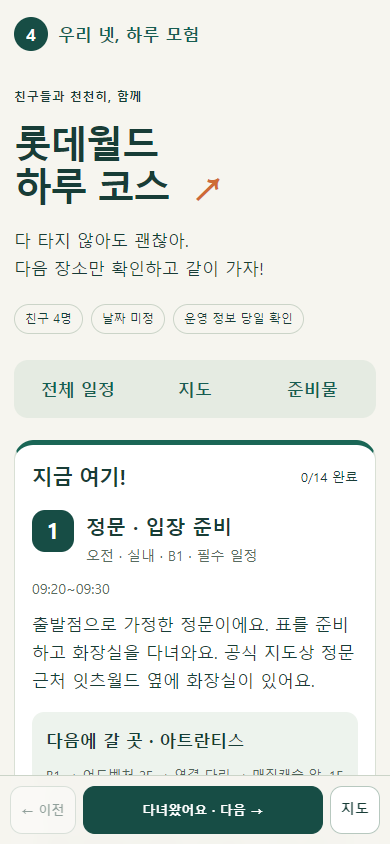
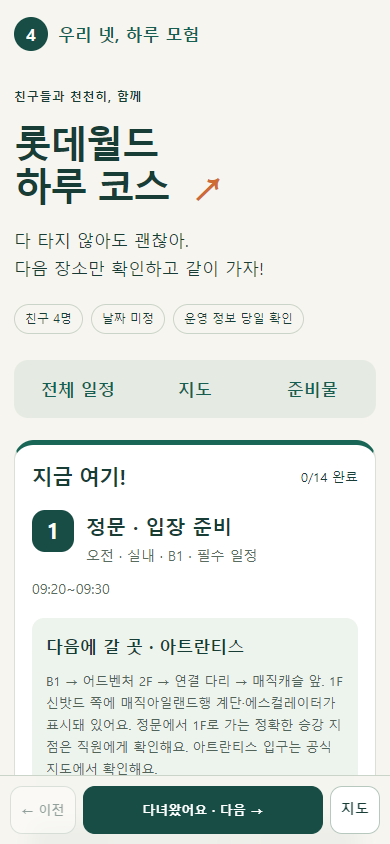
Cross-check APK floor connections and improve map readability

Changed region(s): [[0.0923, 0.7085, 0.8923, 0.9242]]

diff --git a/index.html b/index.html
@@ -8,7 +8,7 @@
 <section class="current panel" aria-label="현재 단계"><div class="section-top"><h2>지금 여기!</h2><span id="progress"></span></div><div id="current"></div><div class="next" id="next"></div><a class="button primary" href="#map" id="show-current">현재 단계 지도 보기 ↗</a></section>
 <p class="small notice">10시 개장을 가정한 <strong>권장 시간대</strong>예요. 예약 시간이 아니에요. 정문(B1) 출발을 가정했어요. 다른 입구라면 직원에게 첫 목적지를 물어봐요.</p>
 <section id="map" class="panel"><div class="section-top"><h2>우리의 코스 지도</h2><span class="tag">공식 지도 기반</span></div><p><strong>첨부 가이드맵 위에서 따라가기</strong></p><p class="small">배경은 공식 가이드맵이에요. 큰 색상 원과 ‘코스’ 버튼은 우리 번호예요. 원본의 작은 시설 번호와 달라요. 확대해서 확인해요.</p><div class="filters" id="periods" aria-label="시간대 선택"></div><label for="floor">구역 / 층 선택</label><select id="floor"><option value="all">전체 코스</option><option value="B1">실내 B1 · 정문</option><option value="1F">실내 1F</option><option value="2F">실내 2F</option><option value="3F">실내 3F</option><option value="4F">실내 4F</option><option value="M">실외 · 매직아일랜드</option></select>
-<div class="legend"><span class="morning">● 오전</span><span class="afternoon">● 오후</span><span class="evening">● 저녁</span></div><div class="map-wrap" id="map-wrap"><svg id="route-map" role="group" aria-label="코스 번호를 눌러 장소를 확인하는 안내도" viewBox="0 0 640 840"></svg></div><div class="map-controls"><button id="zoom-in" aria-label="지도 확대">＋</button><button id="zoom-out" aria-label="지도 축소">−</button><button id="fit">전체 경로</button><button id="focus">선택 장소</button></div><p class="small">지도 안: 한 손가락 이동 · 두 손가락 확대/축소<br>페이지 이동: 지도 바깥에서 위아래로 밀어요.</p><div class="notice small"><strong>점선 화살표 = 이동 방향 안내</strong><br>세부 보행로가 확인되지 않은 구간이에요. 화살표를 실제 길처럼 따라가지 마세요. 공식 지도와 현장 안내를 함께 확인해요.</div><h3>층을 바꾸는 곳</h3><div class="transfer"><strong>실내 ↔ 매직아일랜드</strong><p>신밧드 쪽 1F 계단·에스컬레이터<br>⇅ 어드벤처 2F 연결 통로<br>⇄ 연결 다리 ⇄ 매직캐슬 앞</p><span class="small">연결 관계 확인 · 중간 꺾임·통제 구간 미확인</span></div><div class="transfer"><strong>피크닉 장소</strong><p>회전바구니 출구 옆 1F 계단 ⇅ 2F</p></div><h3>동선 근처 화장실</h3><p class="small">WC · B1 정문 근처 잇츠월드 옆<br>WC · 1F 회전바구니·피크닉 계단 근처<br>WC · 1F 만남의 광장 안쪽</p><p class="small">시설 위치는 공식 지도 아이콘 확인. 개방 상태는 현장에서 확인해요.</p><div id="map-detail" aria-live="polite"></div><p class="small">경로 덧그림은 축척 없는 동선 안내도이며 길의 꺾임을 재현하지 않아요. 시설 대표 위치와 실제 입구는 다를 수 있어요.</p><a class="button" id="official-map" target="_blank" rel="noopener">공식 가이드맵 열기 ↗</a></section>
+<div class="legend"><span class="morning">● 오전</span><span class="afternoon">● 오후</span><span class="evening">● 저녁</span></div><div id="map-route" class="notice small" aria-live="polite"></div><div class="map-wrap" id="map-wrap"><svg id="route-map" role="group" aria-label="코스 번호를 눌러 장소를 확인하는 안내도" viewBox="0 0 640 840"></svg></div><div class="map-controls"><button id="zoom-in" aria-label="지도 확대">＋</button><button id="zoom-out" aria-label="지도 축소">−</button><button id="fit">전체 경로</button><button id="focus">선택 장소</button></div><p class="small">지도 안: 한 손가락 이동 · 두 손가락 확대/축소<br>페이지 이동: 지도 바깥에서 위아래로 밀어요.</p><div class="notice small"><strong>점선 화살표 = 이동 방향 안내</strong><br>세부 보행로가 확인되지 않은 구간이에요. 화살표를 실제 길처럼 따라가지 마세요. 공식 지도와 현장 안내를 함께 확인해요.</div><h3>층을 바꾸는 곳</h3><div class="transfer"><strong>실내 ↔ 매직아일랜드</strong><p>신밧드 쪽 1F 계단·에스컬레이터<br>⇅ 어드벤처 2F 연결 통로<br>⇄ 연결 다리 ⇄ 매직캐슬 앞</p><span class="small">공식 지도·앱 내장 연결 대조 · 중간 꺾임·통제 구간 미확인</span></div><div class="transfer"><strong>피크닉 장소</strong><p>회전바구니 출구 옆 1F 계단 ⇅ 2F</p></div><div class="transfer"><strong>후렌치레볼루션 선택 시</strong><p>1F 어린이범퍼카 쪽 계단·에스컬레이터 ⇅ 2F 퀴즈노스 쪽</p><span class="small">앱 내장 연결 + 최신 지도 대조. 진입길·현재 통행은 직원에게 확인해요.</span></div><h3>동선 근처 화장실</h3><p class="small">WC · B1 정문 근처 잇츠월드 옆<br>WC · 1F 회전바구니·피크닉 계단 근처<br>WC · 1F 만남의 광장 안쪽</p><p class="small">시설 위치는 공식 지도 아이콘 확인. 개방 상태는 현장에서 확인해요.</p><div id="map-detail" aria-live="polite"></div><p class="small">경로 덧그림은 축척 없는 동선 안내도이며 길의 꺾임을 재현하지 않아요. 시설 대표 위치와 실제 입구는 다를 수 있어요.</p><a class="button" id="official-map" target="_blank" rel="noopener">공식 가이드맵 열기 ↗</a></section>
 <section id="schedule"><div class="section-top"><h2>하루를 한 걸음씩</h2><span class="tag">큰 번호 순서로</span></div><p class="small">필수는 밥·휴식·함께 귀가! 놀이기구는 모두 선택이에요. 인기 기구는 한 개만 타도 좋아요.</p><div class="panel alternatives"><h3>상황에 맞게 바꾸기</h3><label class="check"><input id="indoor" type="checkbox"> 비·추위 → 실내 코스로 바꾸기</label><p class="small">야외 일정이 실내 사진·휴식으로 바뀌고 지도와 다음 이동도 함께 바뀌어요.</p><p>대기 60분 이상 → 해당 카드에서 사진·휴식을 선택해요.</p><p>무서운 기구가 어렵다면 → 함께 쉬거나 순한 대안을 골라요. 혼자 남지 않아요.</p></div><div id="cards"></div></section>
 <section id="ready" class="panel"><h2>출발 전 체크</h2><div class="packing"><label><input type="checkbox"> 작은 가방</label><label><input type="checkbox"> 물</label><label><input type="checkbox"> 보조배터리</label><label><input type="checkbox"> 편한 운동화</label><label><input type="checkbox"> 겉옷</label></div><h3>우리 넷의 약속</h3><p>이동 전에는 네 명 모두 있는지 확인해요. 길이 헷갈리면 멈추고 직원에게 물어봐요.</p><p id="meeting"></p><p>흩어지면 혼자 찾으러 다니지 말고 가까운 직원에게 도움을 요청해요.</p><h3>당일 꼭 확인</h3><div id="official-links" class="link-list"></div><p class="small">키·나이·건강 상태 등 모든 탑승 조건은 공식 상세 안내와 현장 직원에게 확인해요. 이 사이트에는 실시간 대기시간이 없어요.</p><h3>저장과 오프라인</h3><p class="small">현재 단계·완료·코스 선택은 이 기기에 저장돼요. 친구들과 자동 동기화되지 않아요. 개인정보는 입력하거나 전송하지 않아요.</p><p id="offline-status" class="small" role="status">오프라인 준비 중…</p><p class="small">최신 운영시간·운휴·공연은 온라인 공식 사이트에서 확인해야 해요.</p><button id="reset">처음부터 다시 보기</button><div id="reset-confirm" hidden><p>완료 표시와 선택 코스를 모두 지울까요?</p><button id="reset-yes">네, 초기화</button> <button id="reset-no">취소</button></div></section>
 <footer><strong>즐거운 하루, 함께 돌아오기.</strong><p>공식 자료 확인: 2026.10.27<br>지도 © 롯데월드 · 제공받은 재게시 허가에 따라 사용.</p><a href="./research.md">지도 출처·확인 범위</a> · <a href="https://github.com/leegunsoodev/lotteworld-day-guide">GitHub</a></footer></main><nav class="bottom" aria-label="단계 이동"><button id="prev">← 이전</button><button id="next-step" class="primary">다녀왔어요 · 다음 →</button><a href="#map">지도</a></nav><div id="toast" role="status" aria-live="polite"></div></body></html>

diff --git a/data.js b/data.js
@@ -4,12 +4,14 @@ export const places={
  gate:{name:'정문 · 입장 준비',floor:'B1',note:'출발점으로 가정한 정문이에요. 표를 준비하고 화장실을 다녀와요. 공식 지도상 정문 근처 잇츠월드 옆에 화장실이 있어요.'},
  atlantis:{name:'아트란티스',floor:'M',note:'매직캐슬 뒤쪽에 있는 선택 기구. 인기 기구 한 개만 타도 충분해요.',limit:'135~190cm'},
  comet:{name:'혜성특급',floor:'M',note:'매직캐슬과 같은 야외 구역. 아트란티스 대신 한 개를 골라요.',limit:'120cm 이상'},
+ carousel:{name:'회전목마',floor:'1F',note:'스릴 기구가 부담스러우면 함께 고를 수 있는 실내 기구예요. 대기가 길면 사진·휴식으로 바꿔요.',limit:'혼자 탑승 100cm 이상'},
+ gift:{name:'로티스엠포리움 · 기념품',floor:'1F',note:'공식 1F 지도에 표시된 기념품점이에요. 약속 시간이 가까우면 쇼핑은 생략해요. 당일 영업을 확인해요.'},
  castle:{name:'매직캐슬 앞 · 사진',floor:'M',note:'매직캐슬 앞에서 함께 사진을 찍어요. 보행 통로를 비워 주세요.'},
  school:{name:'스쿨푸드 · 점심',floor:'1F',note:'신밧드의 모험 가까이에 있는 음식점. 당일 영업·메뉴와 빈자리를 확인해요.'},
  sinbad:{name:'신밧드의 모험',floor:'1F',note:'어두운 장면이 있어요. 친구 모두 괜찮은지 먼저 물어봐요.',limit:'혼자 탑승 110cm 이상'},
  pirate:{name:'스페인해적선',floor:'1F',note:'신밧드와 같은 1층 구역. 무서우면 사진·휴식으로 바꿔요.',limit:'혼자 탑승 110cm 이상'},
  flume:{name:'후룸라이드',floor:'1F',note:'물이 튈 수 있어요. 젖기 싫으면 다른 선택을 골라요.',limit:'혼자 탑승 110cm 이상'},
- french:{name:'후렌치레볼루션',floor:'2F',note:'선택하면 2층 왕복이 생겨요. 정확한 가까운 승강 지점은 직원에게 확인해요.',limit:'120cm 이상'},
+ french:{name:'후렌치레볼루션',floor:'2F',note:'선택하면 2층 왕복이 생겨요. 1F 어린이범퍼카 쪽 ↔ 2F 퀴즈노스 쪽 계단·에스컬레이터 연결을 앱 내장 지도와 대조했어요. 정확한 진입은 직원에게 확인해요.',limit:'120cm 이상'},
  twosome:{name:'투썸플레이스 · 쉬기',floor:'1F',note:'카페 아리아나(투썸플레이스), 팝콘팩토리 옆이에요. 자리와 영업을 확인해요. 충전은 보조배터리로! 콘센트 이용은 확인되지 않았어요.'},
  picnic:{name:'피크닉 장소 · 쉬기',floor:'2F',note:'공식 지도에 회전바구니 옆에서 2층으로 이동하는 지점이 표시돼 있어요. 개방 여부는 현장에서 확인해요.'},
  meeting:{name:'만남의 광장 · 사진',floor:'1F',note:'공식 지도에 표시된 1층 만남의 광장. 함께 사진을 찍거나 잠깐 쉬어요. 통행로는 비워요.'},
@@ -26,16 +28,18 @@ export const steps=[
  {time:'13:20~14:00',period:'afternoon',options:['pirate','meeting']},
  {time:'14:00~15:00',period:'afternoon',options:['flume','french','meeting']},
  {time:'15:00~15:40',period:'afternoon',required:true,options:['twosome','meeting']},
- {time:'15:40~17:00 · 여유가 있을 때',period:'afternoon',options:['sinbad','meeting']},
+ {time:'15:40~17:00 · 여유가 있을 때',period:'afternoon',options:['carousel','meeting','sinbad']},
  {time:'17:00~18:00 · 공연에 맞춰 조정',period:'evening',required:true,options:['dinner']},
  {time:'저녁 후 · 공연과 겹치면 생략',period:'evening',options:['castle','meeting'],indoor:'meeting'},
  {time:'시작 20~30분 전 도착 · 시간 당일 확인',period:'evening',required:true,options:['parade','meeting','sinbad']},
- {time:'공연 후 · 여유가 있을 때만',period:'evening',options:['meeting','sinbad']},
+ {time:'공연 후 · 여유가 있을 때만',period:'evening',options:['meeting','carousel','gift']},
  {time:'보호자와 약속한 시간',period:'evening',required:true,options:['final']},
  {time:'모두 만난 뒤 함께 귀가',period:'evening',required:true,options:['exit']}
 ];
 export function resolve(s){return steps.map((step,i)=>{const id=s.indoor&&step.indoor?step.indoor:step.options.includes(s.choices[i])?s.choices[i]:step.options[0];return {...step,id,place:places[id]};});}
 export function directions(a,b){
+ if(b?.name==='후렌치레볼루션')return '1F 어린이범퍼카 쪽 층 이동 지점 → 2F 퀴즈노스 쪽 → 후렌치레볼루션. 계단·에스컬레이터 연결은 앱 내장 지도 대조. 현재 이용 가능한 진입길은 직원에게 확인해요.';
+ if(a.name==='후렌치레볼루션'&&b?.floor==='1F')return `2F 퀴즈노스 쪽 계단·에스컬레이터 → 1F 어린이범퍼카 쪽 → ${b.name}. 연결 관계는 앱 내장 지도 대조. 현장 통행 안내를 따라요.`;
  if(b?.name==='야간 퍼레이드')return `${a.floor==='M'?'매직캐슬 앞 → 연결 다리 → 어드벤처 2F → 신밧드 쪽 계단·에스컬레이터 → 1F. ':a.floor!=='1F'?a.floor+'에서 1F 이동 지점을 직원에게 확인해요. ':''}1F 가든스테이지 주변에서 직원에게 오늘 퍼레이드 관람 구역을 물어봐요. 지도 핀은 집결 랜드마크이며 관람석이 아니에요.`;
  if(a.name==='야간 퍼레이드')return `공연 후 통행이 풀리면 1F 가든스테이지 주변 → ${b?.name||'만남 장소'}. 통제선과 직원 안내를 따르고, 최종적으로 만남의 광장에서 모여 B1 정문 방향 출구로 함께 가요. 정확한 1F→B1 승강 지점은 직원에게 확인해요.`;
  if(!b)return '오늘 코스 끝! 네 명 모두 함께 귀가해요.';
@@ -47,4 +51,3 @@ export function directions(a,b){
  if(a.name===b.name)return `같은 장소예요. ${b.name}에서 다음 활동을 해요.`;
  return `${a.floor}에서 ${b.name}로 이동해요. 점선은 이동 방향 안내예요. 실제 보행로·입구는 공식 지도와 현장 안내를 확인해요.`;
 }
-

diff --git a/map.js b/map.js
@@ -1,7 +1,7 @@
 // 사용자 제공 공식 PDF 지도에 코스 핀을 올린다. 좌표는 대표 시설 위치이며 입구 좌표는 아니다.
 const NS='http://www.w3.org/2000/svg';
 const layers={B1:{w:900,h:650,title:'실내 B1 · 정문'},'1F':{w:1000,h:700,title:'실내 1F · 어드벤처'},'2F':{w:800,h:330,title:'실내 2F · 어드벤처'},'3F':{w:700,h:340,title:'실내 3F'},'4F':{w:680,h:370,title:'실내 4F'},M:{w:780,h:700,title:'실외 · 매직아일랜드'}};
-const anchors={gate:[740,540,'R',450],exit:[740,540,'R',450],atlantis:[470,275,'R',160],comet:[185,470,'L',430],castle:[425,450,'R',430],school:[142,373,'L',140],dinner:[142,373,'L',140],sinbad:[107,400,'L',310],pirate:[97,467,'L',500],flume:[188,595,'L',630],twosome:[212,410,'R',370],meeting:[540,208,'R',120],final:[540,208,'R',120],parade:[270,490,'R',530],french:[715,235,'R',160]};
+const anchors={carousel:[775,315,'R',20],gift:[282,323,'L',20],gate:[740,540,'R',450],exit:[740,540,'R',450],atlantis:[470,275,'R',160],comet:[185,470,'L',430],castle:[425,450,'R',430],school:[142,373,'L',140],dinner:[142,373,'L',140],sinbad:[107,400,'L',310],pirate:[97,467,'L',500],flume:[188,595,'L',630],twosome:[212,410,'R',370],meeting:[540,208,'R',120],final:[540,208,'R',120],parade:[270,490,'R',530],french:[715,235,'R',160]};
 const colors={morning:'#986014',afternoon:'#086a59',evening:'#7246a1'};
 export class RouteMap {
  constructor(svg,onSelect){this.svg=svg;this.onSelect=onSelect;this.view={x:0,y:0,w:1600,h:1000};this.points=new Map();this.pointers=new Map();this.bind();}
@@ -13,7 +13,7 @@ export class RouteMap {
  for(const f of selectedLayers){const l=layers[f];offsets[f]=offset;this.el('rect',{x:0,y:offset,width:1600,height:l.h+230,rx:24,fill:'#fffdf7',stroke:'#d5dfd1','stroke-width':3},this.svg);this.el('text',{x:30,y:offset+45,'font-size':30,'font-weight':800,fill:'#174d45'},this.svg,l.title);this.el('text',{x:30,y:offset+80,'font-size':20,fill:'#526459'},this.svg,'공식 지도 위 코스 표시 · 핀은 대표 위치 · 실제 입구는 현장 확인');this.el('image',{href:`./maps/${f}.webp`,x:300,y:offset+110,width:l.w,height:l.h},this.svg);
  const callout=(x,y,t)=>{this.el('rect',{x:x-8,y:offset+y-24,width:t.length*17+20,height:38,rx:7,fill:'#fff7cb',stroke:'#9b721e'},this.svg);this.el('text',{x,y:offset+y,'font-size':20,'font-weight':800,fill:'#624710'},this.svg,t);};
  if(f==='1F'){callout(310,160,'1F ↔ 2F · 매직아일랜드 연결');this.el('path',{d:`M 460 ${offset+172} L 395 ${offset+450}`,stroke:'#ac791b','stroke-width':4,'stroke-dasharray':'8 6',fill:'none'},this.svg);callout(800,815,'회전바구니 옆 계단 ↔ 피크닉 2F');callout(840,335,'WC · 만남의 광장 안쪽');callout(700,780,'WC');}
- if(f==='M')callout(970,800,'연결 다리 ↔ 실내 2F');if(f==='B1')callout(840,690,'WC · 잇츠월드 옆');offset+=l.h+260;}
+ if(f==='2F')callout(340,510,'퀴즈노스 쪽 계단·에스컬레이터 ↔ 1F 어린이범퍼카 쪽');if(f==='M')callout(970,800,'연결 다리 ↔ 실내 2F');if(f==='B1')callout(840,690,'WC · 잇츠월드 옆');offset+=l.h+260;}
  this.height=Math.max(600,offset);this.offsets=offsets;const groups=new Map();
  for(const s of shown){const a=anchors[s.id],y=offsets[s.place.floor]+110;if(a&&Number.isFinite(y)){const key=`${s.place.floor}:${a[0]}:${a[1]}`;if(!groups.has(key))groups.set(key,[]);groups.get(key).push(s);this.points.set(s.index,{x:300+a[0],y:y+a[1],floor:s.place.floor,labelX:a[2]==='L'?20:1310,labelY:y+a[3]});}}
  // 대안으로 같은 시설 방문이 늘어도 라벨이 겹치지 않게 여백에 배치한다.

diff --git a/sw.js b/sw.js
@@ -1,4 +1,4 @@
-const CACHE='lotte-day-v2';
+const CACHE='lotte-day-v3';
 const ASSETS=['./','./index.html','./style.css','./app.js','./data.js','./state.js','./map.js','./icon.svg','./og.png','./research.md','./maps/B1.webp','./maps/1F.webp','./maps/2F.webp','./maps/3F.webp','./maps/4F.webp','./maps/M.webp'];
 self.addEventListener('install',event=>event.waitUntil(caches.open(CACHE).then(c=>c.addAll(ASSETS)).then(()=>self.skipWaiting())));
 self.addEventListener('activate',event=>event.waitUntil(caches.keys().then(keys=>Promise.all(keys.filter(k=>k.startsWith('lotte-day-')&&k!==CACHE).map(k=>caches.delete(k)))).then(()=>self.clients.claim())));

diff --git a/research.md b/research.md
@@ -86,3 +86,15 @@
 ## 제공 APK 분석 결과
 
 REA 정적 분석에서 제공 파일은 롯데월드 앱이 아닌 Uptodown 7.41(package com.uptodown)이었다. 내장 APK 또는 롯데월드 지도/시설 좌표 자료를 발견하지 못했다. 해당 파일의 자료는 사이트에 반영하지 않았다. 추가 분석에는 실제 com.lotteworld.android.adventure APK가 필요하다. 설치·실행은 하지 않았다. 상세 로컬 증거는 별도 작업 기록에 보관한다.
+
+## 실제 롯데월드 XAPK REA 분석 반영
+
+사용자 제공 1.1.9 XAPK의 base 패키지는 com.lotteworld.android.adventure, versionCode 71. REA 안전 추출 및 Apktool 리소스 정적 디코딩, JSON/GLB 원본 분석으로 확인했다. 앱 설치/실행 및 인증 API 호출은 하지 않았다. 배포자 서명 진위는 별도 검증하지 않았다.
+- res/raw/src_components_map_data_mappoidata.json: 시설 173개, 앱 map_pos와 로컬 coordinates.
+- assets/Lotteworld/Jamsil/Jamsil.amproj: Stage 6, POI 186, GraphNode 586, 층내 GraphEdge 643.
+- 층별 GLB 6개. 전체 코드/지도 GLB/그래프 데이터는 공개 재배포하지 않았다.
+- 층간은 GraphNode.joints로 연결. B1↔1F 11쌍, 1F↔2F 15쌍, 2F↔Magicisland 4쌍 확인.
+- 신밧드 가까운 1F546/548·1416 ↔ 2F20/21·39. 해당 구역 GLB Escalator/Stair와 최신 PDF의 신밧드 옆 2F 이동 표기가 일치. 기존 안내를 추가로 검증했다.
+- 후렌치 주변 2F17/38·18 ↔ 1F532/1382·533. 1F 어린이범퍼카/매드포갈릭 구역과 2F 퀴즈노스/앤티앤스 구역의 계단·에스컬레이터가 대응. 이 랜드마크 관계를 카드·층 이동 안내에 적용했다.
+- 정문 자체의 POI가 없어 B1 어느 승강 지점을 입장 후 이용하는지는 확정하지 않았다. B1 픽시매직 부근→1F 배틀그라운드/사진상점 연결 후보는 있지만 강제 경로로 지정하지 않았다.
+- 앱에 구식 명칭도 있다. 영업·명칭·층 도착 정보는 최신 PDF/API 우선. 앱 좌표와 PDF 픽셀은 다른 좌표계이며 일치 변환을 검증하지 않았으므로 실제 보행선처럼 실선으로 옮기지 않았다. 거리 단위/이동시간/상행·하행 규칙은 추정하지 않았다.

diff --git a/plan.md b/plan.md
@@ -4,11 +4,11 @@
 
 설계: HTML/CSS/ES modules, 외부 런타임 의존성 없음. 장소 데이터와 단계 상태를 분리하고 동일한 선택 데이터에서 카드·지도·다음 이동 문구를 생성한다. 공식 이미지 재사용 허가가 명확하지 않으면 복제하지 않는다. 직접 제작 안내도는 축척·지리 방향을 보장하지 않는 동선 관계도이며 확인하지 못한 보행 구간은 점선으로 표시한다.
 
-- [ ] 공식 지도, 층수, 연결, 음식점, 편의시설 근거를 research.md에 기록
-- [ ] 상태 전이/대체 코스 동작 테스트 → 구현
-- [ ] 현재/다음 카드, 일정, 지도, 준비물 화면 구현
-- [ ] 확대/드래그/두 손가락 제스처 및 층별·시간별 필터 구현
-- [ ] 저장/초기화/오프라인/절대 OG URL 구현
-- [ ] 모바일 320/390/768 검증, 실제 배포 및 재검증
+- [x] 공식 지도, 층수, 연결, 음식점, 편의시설 근거를 research.md에 기록
+- [x] 상태 전이/대체 코스 동작 테스트 → 구현
+- [x] 현재/다음 카드, 일정, 지도, 준비물 화면 구현
+- [x] 확대/드래그/두 손가락 제스처 및 층별·시간별 필터 구현
+- [x] 저장/초기화/오프라인/절대 OG URL 구현
+- [x] 모바일 320/390/768 검증, 실제 배포 및 재검증
 
 검증: 브라우저에서 카드·번호 연동, 이전/다음, 대안, 새로고침, offline reload, overflow, 포인터 제스처 확인. 카카오톡 앱 실기기 검증은 별도 증거 없으면 미검증으로 보고한다.

diff --git a/verification.md b/verification.md
@@ -15,3 +15,5 @@
 한계: 카카오톡 내부 브라우저 실기기, 실제 현장 보행, 당일 영업·운휴·공연·통제는 검증하지 않았다. 지도 위 점선은 실제 보행로가 아니다. 퍼레이드 관람석은 현장 직원에게 확인해야 한다.
 
 공개 배포 검증은 배포 후 아래에 추가한다.
+
+공식 PDF 재게시 허가 보유를 사용자에게 확인한 뒤 배경 지도로 적용. 실제 XAPK REA 분석에서 신밧드/후렌치 층간 연결을 추가 대조했으며 원본 앱 코드는 사이트에 포함하지 않았다. 첫 Pages 빌드 dc439de는 built/HTTPS로 확인. 최종 공개 브라우저 검증은 아래 갱신한다.

diff --git a/error.md b/error.md
@@ -7,3 +7,5 @@
 - SVG innerText는 지원되지 않음: 테스트를 textContent로 수정.
 - 첫 터치 테스트는 지도 스크롤 위치와 이벤트 반영 대기 누락. 화면 안 지도에서 실제 CDP touch 이벤트로 재검증 통과.
 - 최초 순서도는 현장 지도 용도로 부족하다는 사용자 피드백. 제공된 공식 지도 배경+좌표 핀 오버레이로 교체.
+
+- 작업 경로 혼동 방지: 수정은 절대 경로 또는 작업용 Node 스크립트 사용. PowerShell 이중 따옴표 안 JavaScript $()가 치환되는 문제를 구문 검사로 발견해 수정. JavaScript 텍스트는 apply_patch/파일 스크립트로 전달한다.
